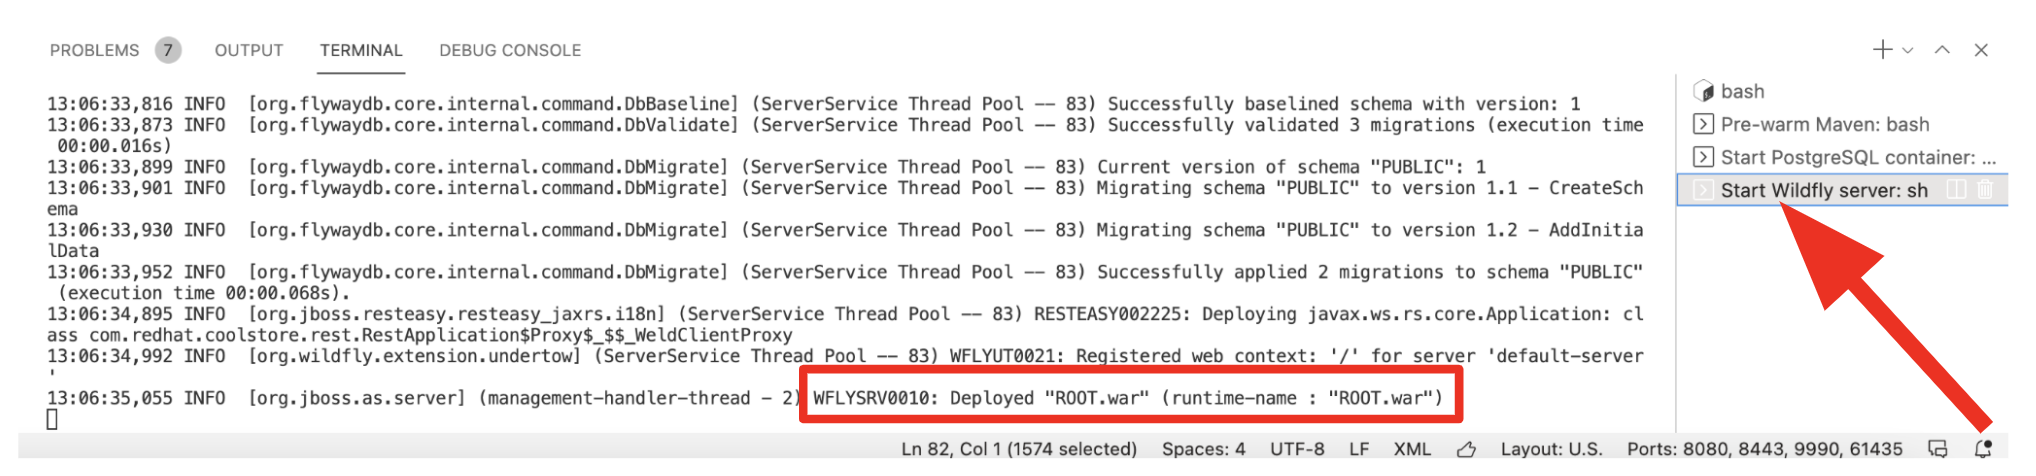
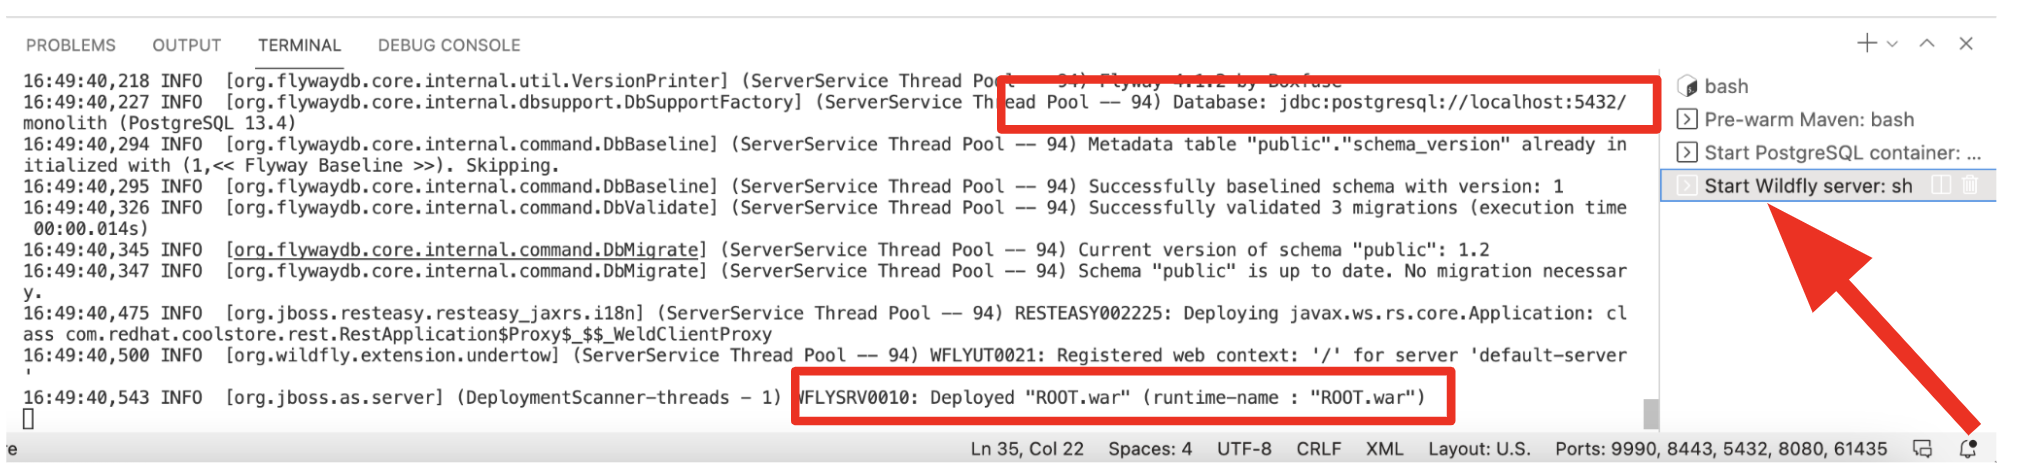
Update migration

diff --git a/src/main/java/com/redhat/coolstore/utils/DataBaseMigrationStartup.java b/src/main/java/com/redhat/coolstore/utils/DataBaseMigrationStartup.java
@@ -25,7 +25,7 @@ public class DataBaseMigrationStartup {
     @Inject
     Logger logger;
 
-    @Resource(mappedName = "java:jboss/datasources/ExampleDS")
+    @Resource(mappedName = "java:jboss/datasources/CoolstoreDS")
     DataSource dataSource;
 
     @PostConstruct

diff --git a/instructions/2-migrate-weblogic-to-jboss.md b/instructions/2-migrate-weblogic-to-jboss.md
@@ -427,56 +427,39 @@ In this development environment (GitPod), a JBoss EAP server is already running 
 
 <img src="../img/2-eap-running.png" width=700 align=center>
 
-You'll use a Maven plugin (`wildfly-maven-plugin`) to deploy the application directly to the running EAP server. You can also deploy artifacts, such as JDBC drivers and database resources. This can also be done with JBoss CLI commands, which you'll explore later on.
-
-Open the `pom.xml` file to add the following configuration at the `<!-- TODO: Add Wildfly plugin here:[-->]`:
-
-```xml
-<plugin>
-    <groupId>org.wildfly.plugins</groupId>
-    <artifactId>wildfly-maven-plugin</artifactId>
-    <version>2.1.0.Beta1</version>
-    <executions>
-        <execution>
-            <id>deploy-postgresql</id>
-            <phase>package</phase>
-            <goals>
-                <goal>deploy-artifact</goal>
-            </goals>
-            <configuration>
-                <groupId>org.postgresql</groupId>
-                <artifactId>postgresql</artifactId>
-                <name>postgresql.jar</name>
-            </configuration>
-        </execution>
-        <execution>
-            <id>add-datasource</id>
-            <phase>package</phase>
-            <goals>
-                <goal>execute-commands</goal>
-            </goals>
-            <configuration>
-                <batch>true</batch>
-                <commands>
-                    <command>/subsystem=datasources/data-source=postgresql:add(driver-name=postgresql.jar, jndi-name=&quot;java:/jdbc/CoolstoreDS&quot;, enabled=true, connection-url=&quot;jdbc:postgresql://coolstore-postgresql:5432/monolith&quot;)</command>
-                </commands>
-            </configuration>
-        </execution>
-    </executions>
-</plugin>
-```
-
-The _wildfly:deploy_ goal deploys the application to the EAP server. In the terminal, run the following Maven command:
+Copy the packaged application (.war file) to the running EAP server. Run the following command in the `Pre-warm Maven` Terminal:
 
 ```shell
-mvn -f $GITPOD_REPO_ROOT clean wildfly:deploy
+cp /workspace/workshop-migrate-jboss-on-app-service/target/ROOT.war /workspace/deployments/
 ```
 
-Wait for the build to finish and the `BUILD SUCCESS` message!
-
-Click on the existing `Start Wildfly server` terminal where EAP was started for you, and you'll see `ROOT.war` is deployed:
+Go back to the `Start Wildfly server` terminal where EAP was started for you, and you'll see `ROOT.war` is deployed:
 
 <img src="../img/2-eap-deployed.png" width=700 align=center>
+
+You can also find out that the inventory data is created in the PostgreSQL. Run the following `psql` command in thePre-warm Maven` Terminal:
+
+```shell
+PGPASSWORD=coolstore123 psql -h localhost -U coolstore monolith -c 'select itemid, quantity from INVENTORY;'
+```
+
+The output should look like:
+
+```
+gitpod /workspace/workshop-migrate-jboss-on-app-service (postgres-update) $ PGPASSWORD=coolstore123 psql -h localhost -U coolstore monolith -c 'select itemid, quantity from INVENTORY;'
+ itemid | quantity 
+--------+----------
+ 329299 |      736
+ 329199 |      512
+ 165613 |      256
+ 165614 |       54
+ 165954 |       87
+ 444434 |      443
+ 444435 |      600
+ 444436 |      230
+ 444437 |      300
+(9 rows)
+```
 
 #### Congratulations!
 
